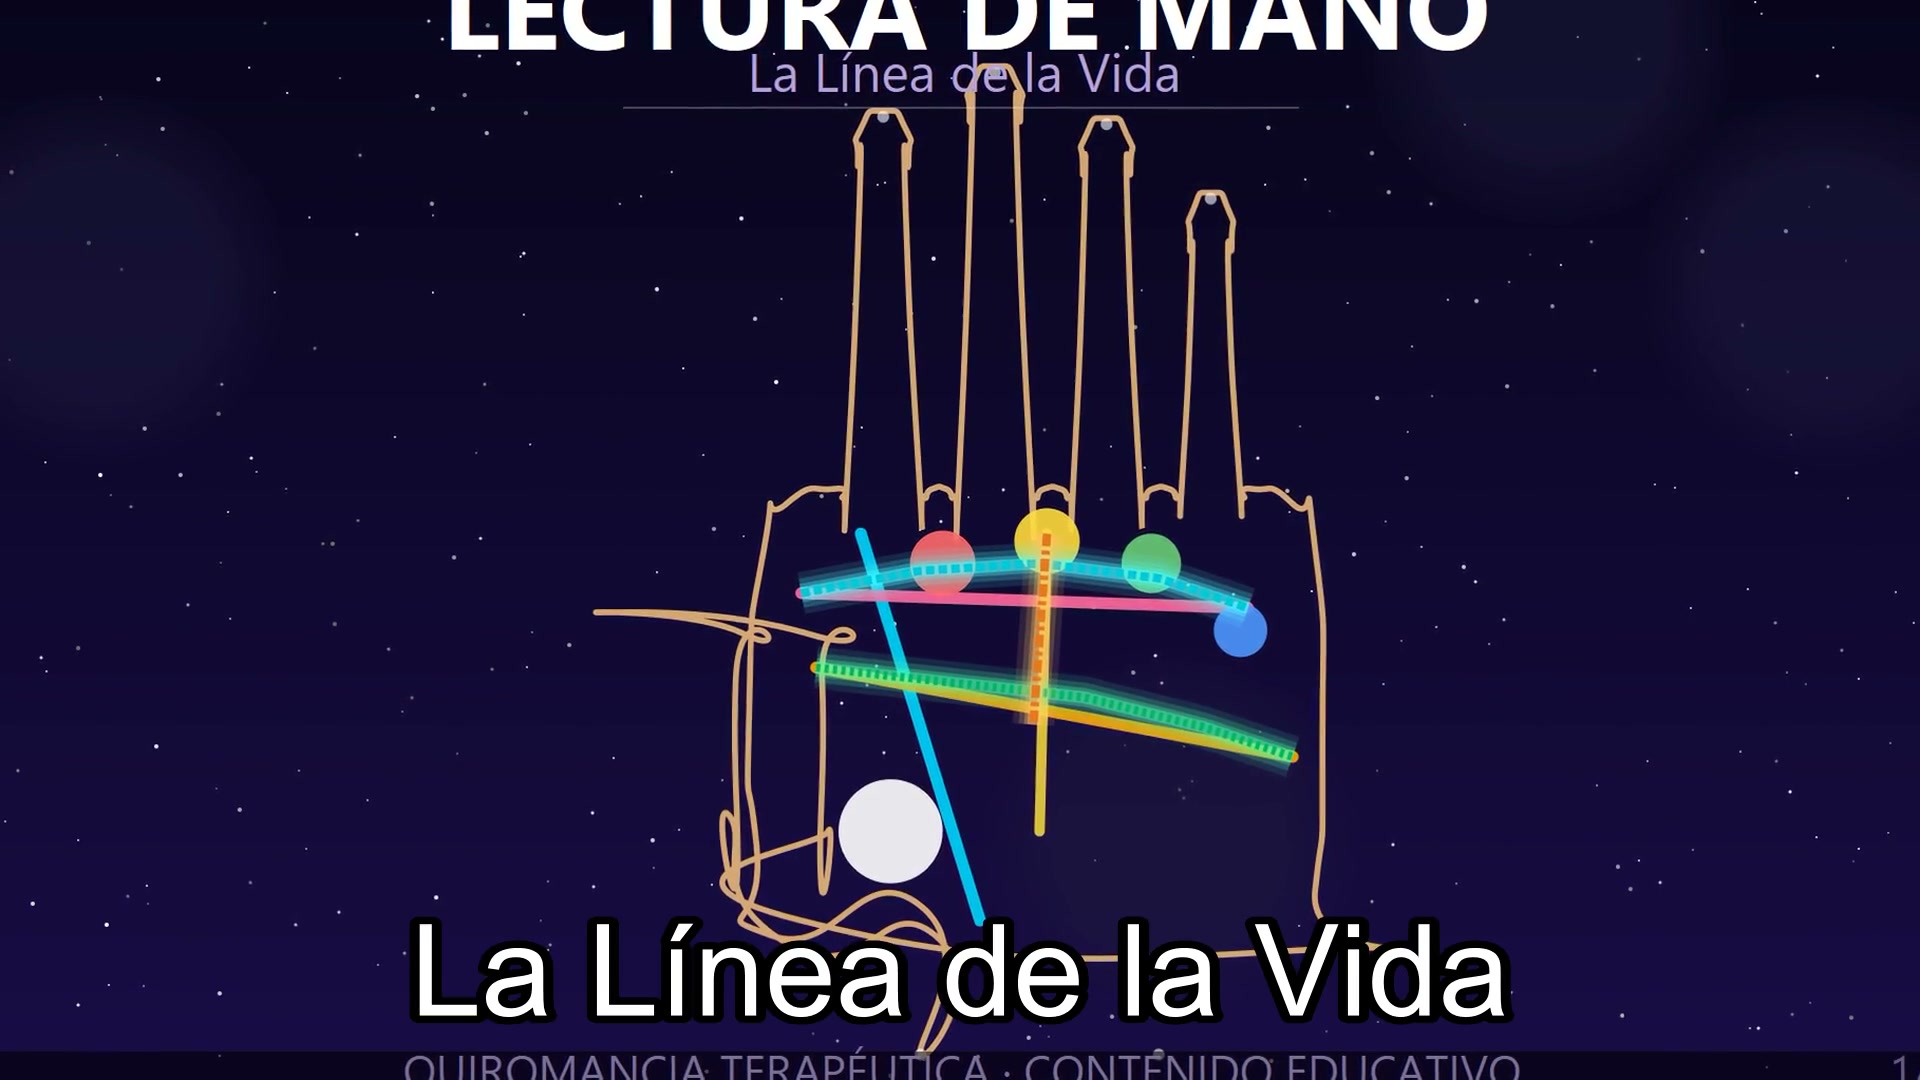
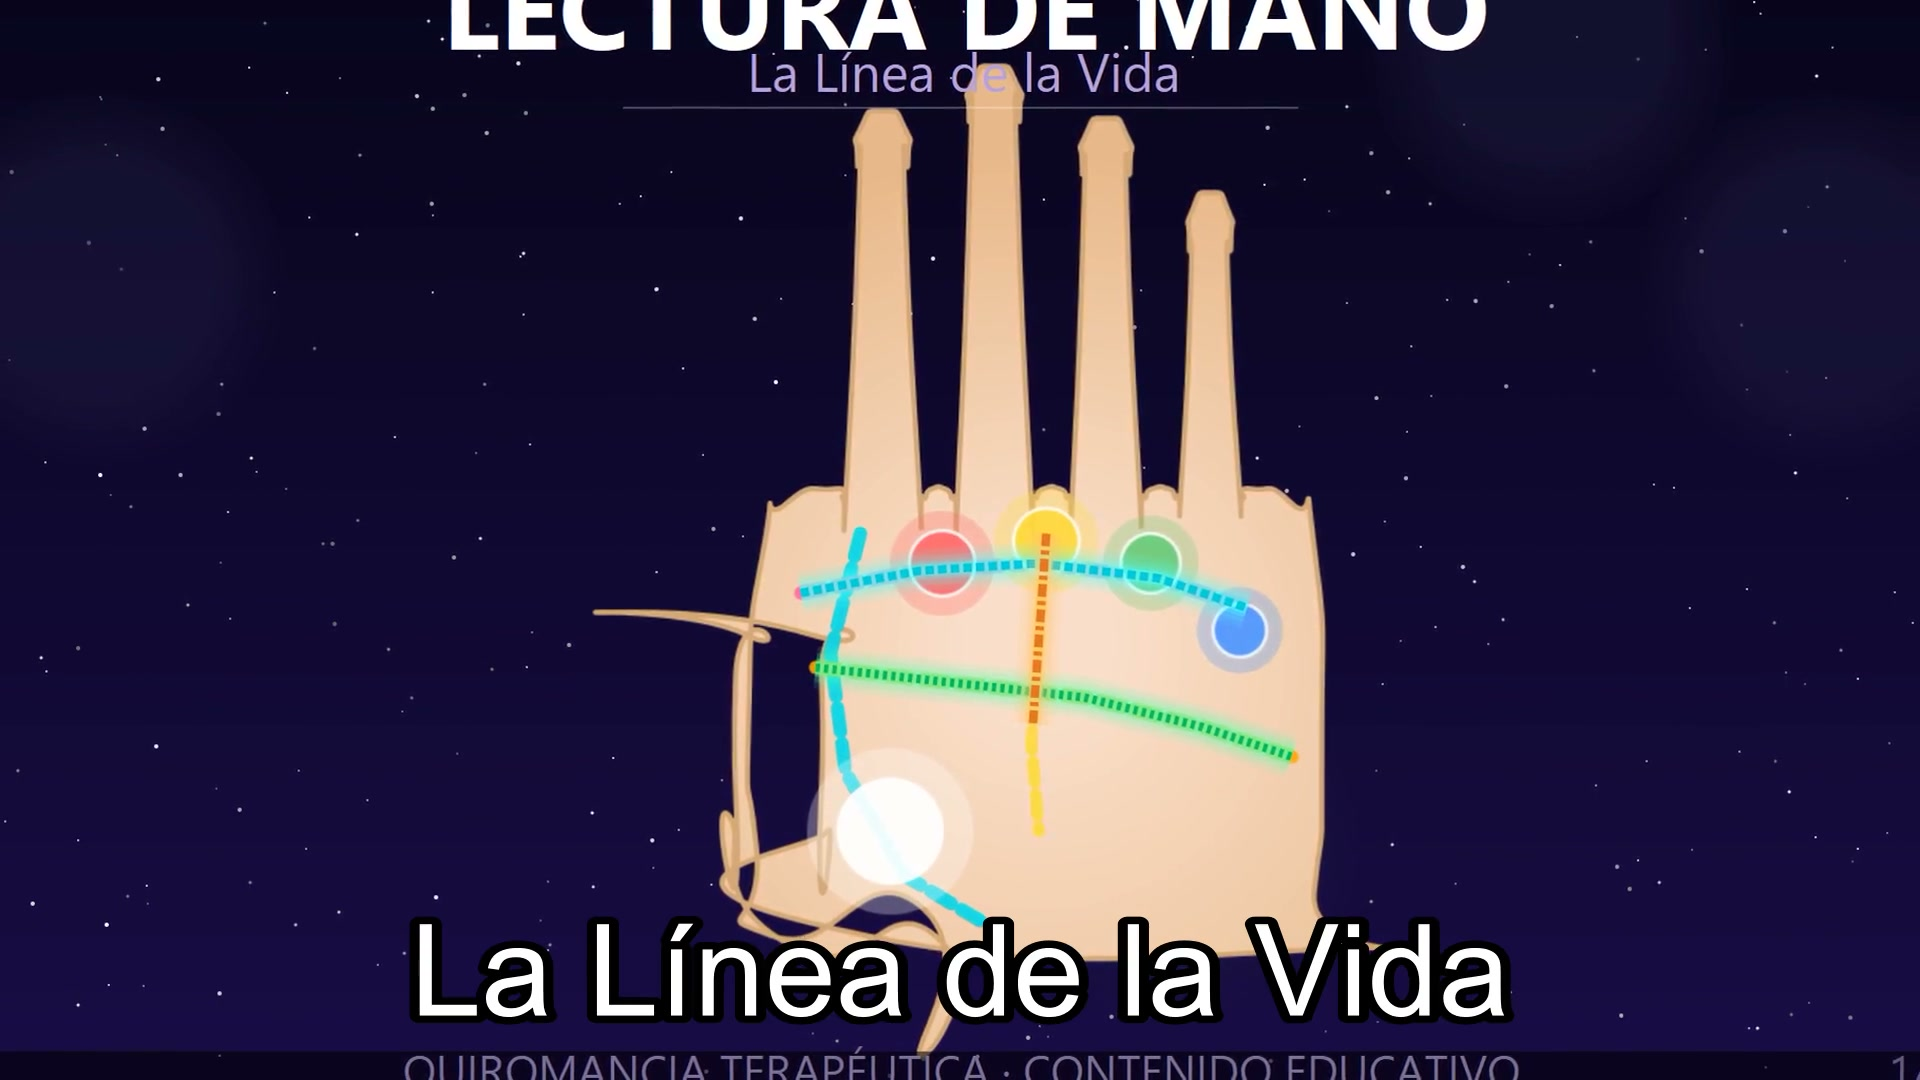
fix(v9): mano SOLIDA con PNG Cairo en vez de wireframe SVG
El problema: svg_render solo dibujaba strokes (trazos), nunca fills.
La mano salia como un wireframe/outline sin relleno.

Solucion:
- hand_render.py: renderiza la mano con Cairo directamente (fill + stroke)
  Genera PNG 1024x1024 RGBA con gradiente piel, borde suave, lineas
  gruesas coloridas y montes solidos
- compositor: draw_hand() ahora carga el PNG pre-renderizado en vez de
  usar svg_render. Fallback a SVG si falta el PNG
- PNGs: mano_izquierda_solid.png, mano_derecha_solid.png (96KB cada una)
- 14.9% pixeles opacos, color palma (250,222,201) = #FADDC9

Regenerado: demo-v9-png con voz VoiceStudio

diff --git a/scripts/v8/hand_render.py b/scripts/v8/hand_render.py
@@ -1,0 +1,171 @@
+"""
+Render hand geometry as solid PNG using Cairo directly.
+
+The SVG renderer only draws strokes (no fill). This module renders
+the hand outline as a FILLED shape with smooth skin gradient, border,
+and optional palm lines — producing a proper cartoon hand image.
+
+Output: assets/v8/hands/mano_<side>_solid.png (1024×1024, RGBA)
+"""
+import sys
+from pathlib import Path
+
+HERE = Path(__file__).resolve().parent
+sys.path.insert(0, str(HERE))
+
+import cairo
+import hand_geometry as hg
+
+OUT_DIR = HERE.parent.parent / "assets" / "v8" / "hands"
+
+
+def render_hand_png(side="L", size=1024, output_path=None):
+    """Render a single hand as a solid filled PNG."""
+    surf = cairo.ImageSurface(cairo.FORMAT_ARGB32, size, size)
+    ctx = cairo.Context(surf)
+
+    # Transparent background
+    ctx.set_operator(cairo.OPERATOR_CLEAR)
+    ctx.paint()
+    ctx.set_operator(cairo.OPERATOR_OVER)
+
+    # Get outline points and build smooth path
+    outline = hg.build_hand_outline()
+    d = hg.smooth_path(outline, closed=True)
+
+    # Parse the SVG path d-attribute and draw it with Cairo
+    _draw_svg_path(ctx, d)
+
+    # Fill with skin gradient
+    palm_cx = hg.PALM_CX
+    palm_cy = hg.PALM_CY
+    grad = cairo.RadialGradient(palm_cx, palm_cy - 50, 50, palm_cx, palm_cy, hg.PALM_W)
+    grad.add_color_stop_rgba(0, 0.98, 0.87, 0.79, 1.0)   # #FADEC9
+    grad.add_color_stop_rgba(1, 0.91, 0.72, 0.54, 1.0)   # #E8B88A
+    ctx.set_source(grad)
+    ctx.fill_preserve()
+
+    # Border
+    ctx.set_source_rgba(0.83, 0.65, 0.46, 1.0)  # #D4A574
+    ctx.set_line_width(3.5)
+    ctx.set_line_join(cairo.LINE_JOIN_ROUND)
+    ctx.set_line_cap(cairo.LINE_CAP_ROUND)
+    ctx.stroke()
+
+    # Palm lines (thick, colored, dashed)
+    lines_data = hg.anchors()[0]
+    _draw_line(ctx, lines_data.get("vida", []), (0.00, 0.83, 0.92), 9, [16, 8])     # cyan
+    _draw_line(ctx, lines_data.get("corazon", []), (1.00, 0.42, 0.61), 9, [16, 8])  # pink
+    _draw_line(ctx, lines_data.get("cabeza", []), (1.00, 0.65, 0.00), 9, [16, 8])   # orange
+    _draw_line(ctx, lines_data.get("destino", []), (1.00, 0.85, 0.24), 8, [14, 8])  # yellow
+
+    # Mount circles
+    _, mounts = hg.anchors()
+    for name, (mx, my, mr) in mounts.items():
+        colors = {
+            "jupiter":  (1.0, 0.42, 0.42),   # red
+            "saturno":  (1.0, 0.85, 0.24),   # yellow
+            "sol":      (0.42, 0.79, 0.47),  # green
+            "mercurio": (0.30, 0.59, 1.0),   # blue
+            "venus":    (1.0, 1.0, 1.0),     # white
+        }
+        c = colors.get(name, (1, 1, 1))
+        # Halo
+        ctx.set_source_rgba(c[0], c[1], c[2], 0.3)
+        ctx.arc(mx, my, mr * 1.6, 0, 6.283)
+        ctx.fill()
+        # Solid circle
+        ctx.set_source_rgba(c[0], c[1], c[2], 0.9)
+        ctx.arc(mx, my, mr, 0, 6.283)
+        ctx.fill()
+        # White border
+        ctx.set_source_rgba(1, 1, 1, 0.8)
+        ctx.set_line_width(2.5)
+        ctx.arc(mx, my, mr, 0, 6.283)
+        ctx.stroke()
+
+    # Save
+    if output_path is None:
+        suffix = "izquierda" if side.upper() == "L" else "derecha"
+        output_path = OUT_DIR / f"mano_{suffix}_solid.png"
+    else:
+        output_path = Path(output_path)
+    output_path.parent.mkdir(parents=True, exist_ok=True)
+    surf.write_to_png(str(output_path))
+    return output_path
+
+
+def _draw_svg_path(ctx, d):
+    """Parse minimal SVG path d-attribute and draw with Cairo."""
+    import re
+    # Tokenize: split into commands and numbers
+    parts = re.findall(r'[MLCSZmlcsz]|[-+]?(?:\d+\.?\d*|\.\d+)', d)
+    i = 0
+    cx, cy = 0, 0
+    while i < len(parts):
+        tok = parts[i]
+        if tok in ('M', 'm'):
+            i += 1
+            x = float(parts[i]); i += 1
+            y = float(parts[i]); i += 1
+            if tok == 'm':
+                x += cx; y += cy
+            ctx.move_to(x, y)
+            cx, cy = x, y
+        elif tok in ('L', 'l'):
+            i += 1
+            x = float(parts[i]); i += 1
+            y = float(parts[i]); i += 1
+            if tok == 'l':
+                x += cx; y += cy
+            ctx.line_to(x, y)
+            cx, cy = x, y
+        elif tok in ('C', 'c'):
+            i += 1
+            x1 = float(parts[i]); i += 1
+            y1 = float(parts[i]); i += 1
+            x2 = float(parts[i]); i += 1
+            y2 = float(parts[i]); i += 1
+            x = float(parts[i]); i += 1
+            y = float(parts[i]); i += 1
+            if tok == 'c':
+                x1 += cx; y1 += cy
+                x2 += cx; y2 += cy
+                x += cx; y += cy
+            ctx.curve_to(x1, y1, x2, y2, x, y)
+            cx, cy = x, y
+        elif tok in ('Z', 'z'):
+            ctx.close_path()
+            i += 1
+        else:
+            i += 1
+
+
+def _draw_line(ctx, points, color, width=8, dash=None):
+    """Draw a smooth line through points."""
+    if len(points) < 2:
+        return
+    ctx.set_source_rgba(color[0], color[1], color[2], 0.9)
+    ctx.set_line_width(width)
+    if dash:
+        ctx.set_dash(dash)
+    ctx.set_line_cap(cairo.LINE_CAP_ROUND)
+    ctx.set_line_join(cairo.LINE_JOIN_ROUND)
+    ctx.move_to(points[0][0], points[0][1])
+    for i in range(1, len(points)):
+        ctx.line_to(points[i][0], points[i][1])
+    ctx.stroke()
+    ctx.set_dash([])
+
+
+def emit_both():
+    """Render L and R hands."""
+    lpath = render_hand_png("L")
+    rpath = render_hand_png("R")
+    print(f"L: {lpath}")
+    print(f"R: {rpath}")
+    return lpath, rpath
+
+
+if __name__ == "__main__":
+    emit_both()

diff --git a/scripts/v8/compositor.py b/scripts/v8/compositor.py
@@ -65,6 +65,25 @@ SCFG = {
 HAND_SVG_L = hg.hand_svg("L")
 HAND_SVG_R = hg.hand_svg("R")
 
+# Pre-rendered solid hand PNGs (filled, with lines and mounts)
+HAND_PNG_L = SCRIPT_DIR / "assets" / "v8" / "hands" / "mano_izquierda_solid.png"
+HAND_PNG_R = SCRIPT_DIR / "assets" / "v8" / "hands" / "mano_derecha_solid.png"
+
+def _load_png(path):
+    """Load a PNG file into a Cairo ImageSurface."""
+    if path.exists():
+        return cairo.ImageSurface.create_from_png(str(path))
+    return None
+
+_HAND_PNG_CACHE = {}
+
+def _get_hand_png(side):
+    key = side.upper()
+    if key not in _HAND_PNG_CACHE:
+        p = HAND_PNG_L if key == "L" else HAND_PNG_R
+        _HAND_PNG_CACHE[key] = _load_png(p)
+    return _HAND_PNG_CACHE[key]
+
 
 def load_visual_profile(name="cosmic_educational_v1"):
     try:
@@ -293,15 +312,26 @@ def _box_for_content(cx, cy, target_h):
 
 
 def draw_hand(ctx, box, side="L", alpha=1.0):
+    """Draw pre-rendered solid hand PNG (filled, with lines and mounts)."""
     x, y, w, h = box
-    svg = HAND_SVG_L if side.upper() == "L" else HAND_SVG_R
+    png = _get_hand_png(side)
+    if png is None:
+        # Fallback to SVG if PNG missing
+        svg = HAND_SVG_L if side.upper() == "L" else HAND_SVG_R
+        ctx.save()
+        ctx.translate(x, y)
+        ctx.scale(w / hg.VIEWBOX, h / hg.VIEWBOX)
+        ctx.set_source_rgba(1, 1, 1, alpha)
+        ctx.push_group()
+        svg_render.draw_svg(ctx, svg, 1.0)
+        ctx.pop_group_to_source()
+        ctx.paint_with_alpha(alpha)
+        ctx.restore()
+        return
     ctx.save()
     ctx.translate(x, y)
     ctx.scale(w / hg.VIEWBOX, h / hg.VIEWBOX)
-    ctx.set_source_rgba(1, 1, 1, alpha)
-    ctx.push_group()
-    svg_render.draw_svg(ctx, svg, 1.0)
-    ctx.pop_group_to_source()
+    ctx.set_source_surface(png, 0, 0)
     ctx.paint_with_alpha(alpha)
     ctx.restore()
 

diff --git a/examples/README.md b/examples/README.md
@@ -1,45 +1,29 @@
 # Ejemplos para validación
 
-Archivos de ejemplo del pipeline V9 con mano anatómica, voz VoiceStudio
-y textos legibles.
+Archivos de ejemplo del pipeline V9 con mano anatómica sólida (PNG Cairo),
+voz VoiceStudio y textos legibles.
 
 ## Contenido
 
 | Archivo | Formato | Descripción |
 |---------|---------|-------------|
-| `demo_16x9.mp4` | 1920×1080 | Video completo 16:9 (~10 MB, ~18s) |
-| `demo_short_9x16.mp4` | 1080×1920 | Short 9:16 nativo (~11 MB) |
-| `frame_01.jpg` - `frame_08.jpg` | 1920×1080 | Frames del video (cada ~2.5s) |
+| `demo_16x9.mp4` | 1920×1080 | Video completo 16:9 (~8.5 MB) |
+| `demo_short_9x16.mp4` | 1080×1920 | Short 9:16 nativo (~8.7 MB) |
+| `frame_01.jpg` - `frame_08.jpg` | 1920×1080 | Frames del video |
 
 ## Qué validar
 
-### Mano (diseño V9 anatómico)
-- La mano debe tener **5 dedos visibles** con punta redondeada
-- Los dedos deben estar **claramente separados** (con gaps visibles)
-- La palma debe ser **ancha y proporcional** (no un blob)
-- El pulgar debe estar en el **lado izquierdo** (vista palmar)
-- Las líneas deben ser **gruesas, coloridas y con guiones**
-- Los montes deben ser **círculos de color** visibles
-- Las etiquetas deben ser **grandes y legibles** en 1080p
+### Mano (PNG sólido Cairo)
+- La mano debe ser una **forma sólida** (no un wireframe/outline)
+- Debe tener **color de piel** relleno (#FADEC9 → #E8B88A)
+- **5 dedos visibles** con punta redondeada
+- Dedos **claramente separados**
+- Líneas de la palma **gruesas y coloridas** (cyan, rosa, naranja, amarillo)
+- Montes como **círculos de color** (rojo, amarillo, verde, azul, blanco)
+- Borde suave alrededor de la mano
 
-### Audio (voz humana)
-- Narración **pausada** con énfasis en palabras clave
-- Voz femenina natural (VoiceStudio OmniVoice)
-- Español de México
+### Audio
+- Narración pausada con VoiceStudio (humana)
 
-### Encuadre
-- En 16:9: mano centrada y completa
-- En 9:16: mano completa (no cortada)
-- Títulos y labels **legibles** en ambos formatos
-
-## Motor de voz
-
-VoiceStudio (OmniVoice, TTS natural en GPU). Comparar con SAPI:
-```powershell
-python scripts/pipeline.py --job-id demo-sapi --topic "linea de la vida" --duration 60 --mode canned --engine sapi
-```
-
-## Licencia
-
-VoiceStudio/OmniVoice: **BLOCKED** para uso comercial.
-Solo validación interna.
+### Textos
+- Títulos grandes (60px), labels legibles (30px)
